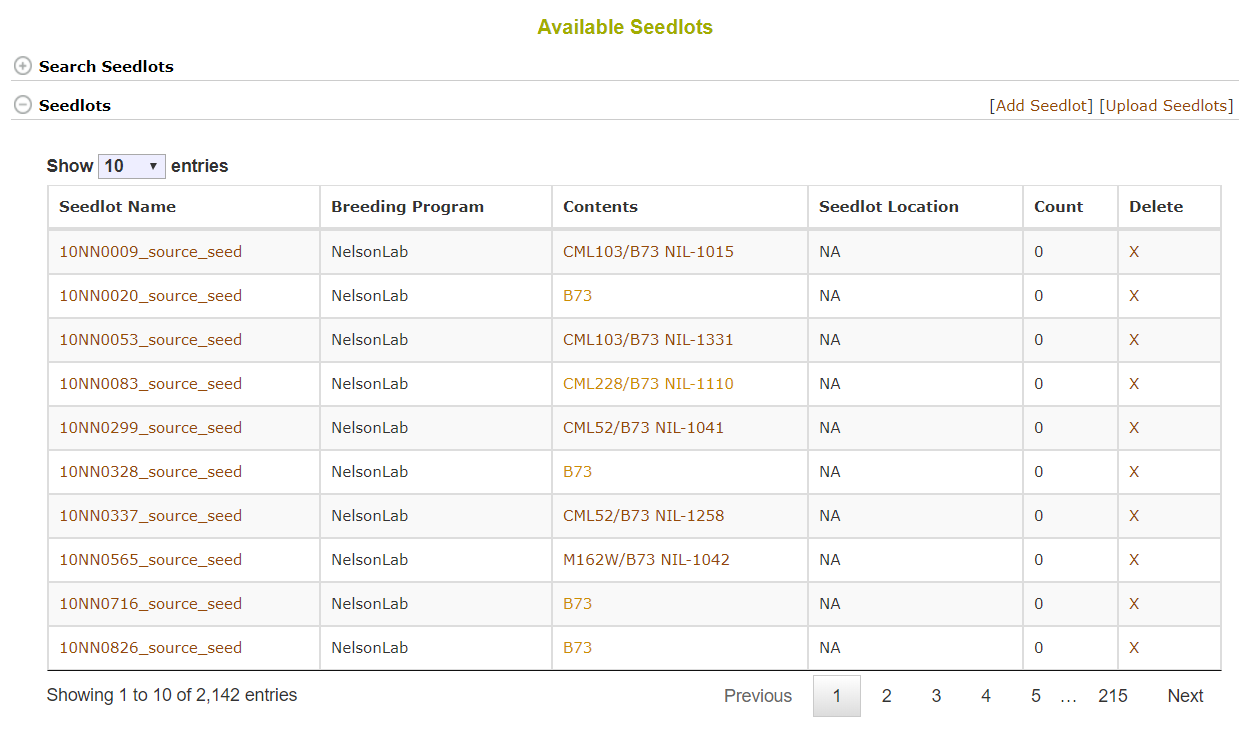
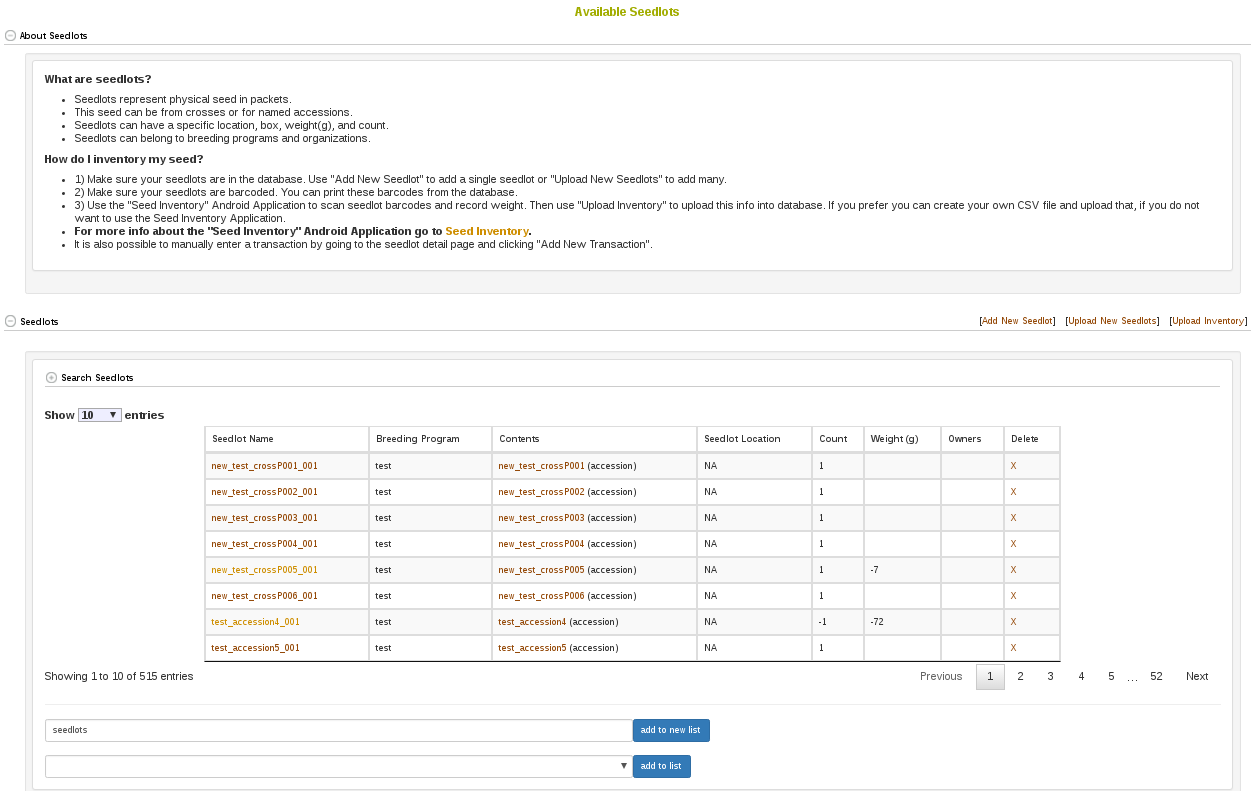
seedlot inventory docs

diff --git a/docs/03_managing_breeding_data/03_04.md b/docs/03_managing_breeding_data/03_04.md
@@ -8,14 +8,14 @@ layout: doc_page
 {:toc}
 <!-- TOC-END -->
 
-Seedlots are different from Accessions in that they represent the physical seed being evaluated in an experiment. Seedlots have things like physical storage locations and seed quantities, which accessions do not. Click Manage and then Seed Lots to begin.
+Seedlots are different from Accessions in that they represent the physical seed being evaluated in an experiment. Seedlots have things like physical storage locations and seed quantities, which accessions do not. The seed in seedlots can be from crosses or can be named accessions. Click Manage and then Seed Lots to begin.
 
 ![]({{"assets/images/manage_seedlots.png" | relative_url }})
 
 3.4.1 Add New Seedlot(s)
 -----------------
 
-To add a single new seedlot, click on "Add Seedlot". This will bring up the following dialog where you enter information about where the seedlot exists, what accession or cross in contained in it, and how many seeds there are. A seedlot must contain either an accession or a cross, and not both.
+To add a single new seedlot, click on "Add Seedlot". This will bring up the following dialog where you enter information about where the seedlot exists, what accession or cross is contained in it, and how many seeds there are. A seedlot must contain either an accession or a cross, and not both. A seedlot must have a weight in grams or a seed count or both of these.
 
 ![]({{"assets/images/manage_seedlot_add_seedlot.png" | relative_url }})
 
@@ -34,7 +34,24 @@ On this page you see and can edit information regarding a single seedlot, such a
 
 ![]({{"assets/images/seedlot_add_new_transaction.png" | relative_url }})
 
-3.4.3 Find Seedlots For a List of Accessions
+3.4.3 Seed Inventory
+-----------------
+
+To inventory your seed:
+1) Make sure your seedlots are in the database. Use "Add New Seedlot" to add a single seedlot or "Upload New Seedlots" to add many.
+2) Make sure your seedlots are barcoded. You can print these barcodes from the database.
+3) Use the "Seed Inventory" Android Application to scan seedlot barcodes and record weight. Then use "Upload Inventory" to upload this info into database. If you prefer you can create your own CSV file and upload that, if you do not want to use the Seed Inventory Application.
+<b>For more info about the "Seed Inventory" Android Application go to <a href="http://www.wheatgenetics.org/research/software/35-inventory">Seed Inventory</a>.
+
+Clicking the "Upload Inventory" button will bring the following dialog:
+
+![]({{"assets/images/manage_seedlot_upload_inventory.png" | relative_url }})
+
+The CSV file that should contain your inventory should meet these Template requirements. The Seed Inventory Android Application exports this exact file.
+
+![]({{"assets/images/manage_seedlot_upload_inventory_template.png" | relative_url }})
+
+3.4.4 Find Seedlots For a List of Accessions
 -----------------
 
 A convenient tool for searching available seedlots for a list of accessions is available in the list tool. First open up your list of accessions. For help opening a list of accessions please see the List section help. There is a button called "See Available Seedlots".
@@ -45,7 +62,7 @@ Once you click this, you will see the following table in a dialog. From here you
 
 ![]({{"assets/images/manage_seedlot_list_available_seedlots.png" | relative_url }})
 
-3.4.4 Create a seedlot for an Accession or Cross
+3.4.5 Create a seedlot for an Accession or Cross
 -----------------
 
 Complementary to what we saw above for creating seedlots from the "Manage Seedlots" page, it is possible to create a new seedlot from an accession's detail page or from the cross detail page. On the accession detail page, this is visible in the "Related Stocks" section as seen below. The cross detail page has an identical section. Notice the link for creating a new seedlot, which streamlines adding the seedlot.
